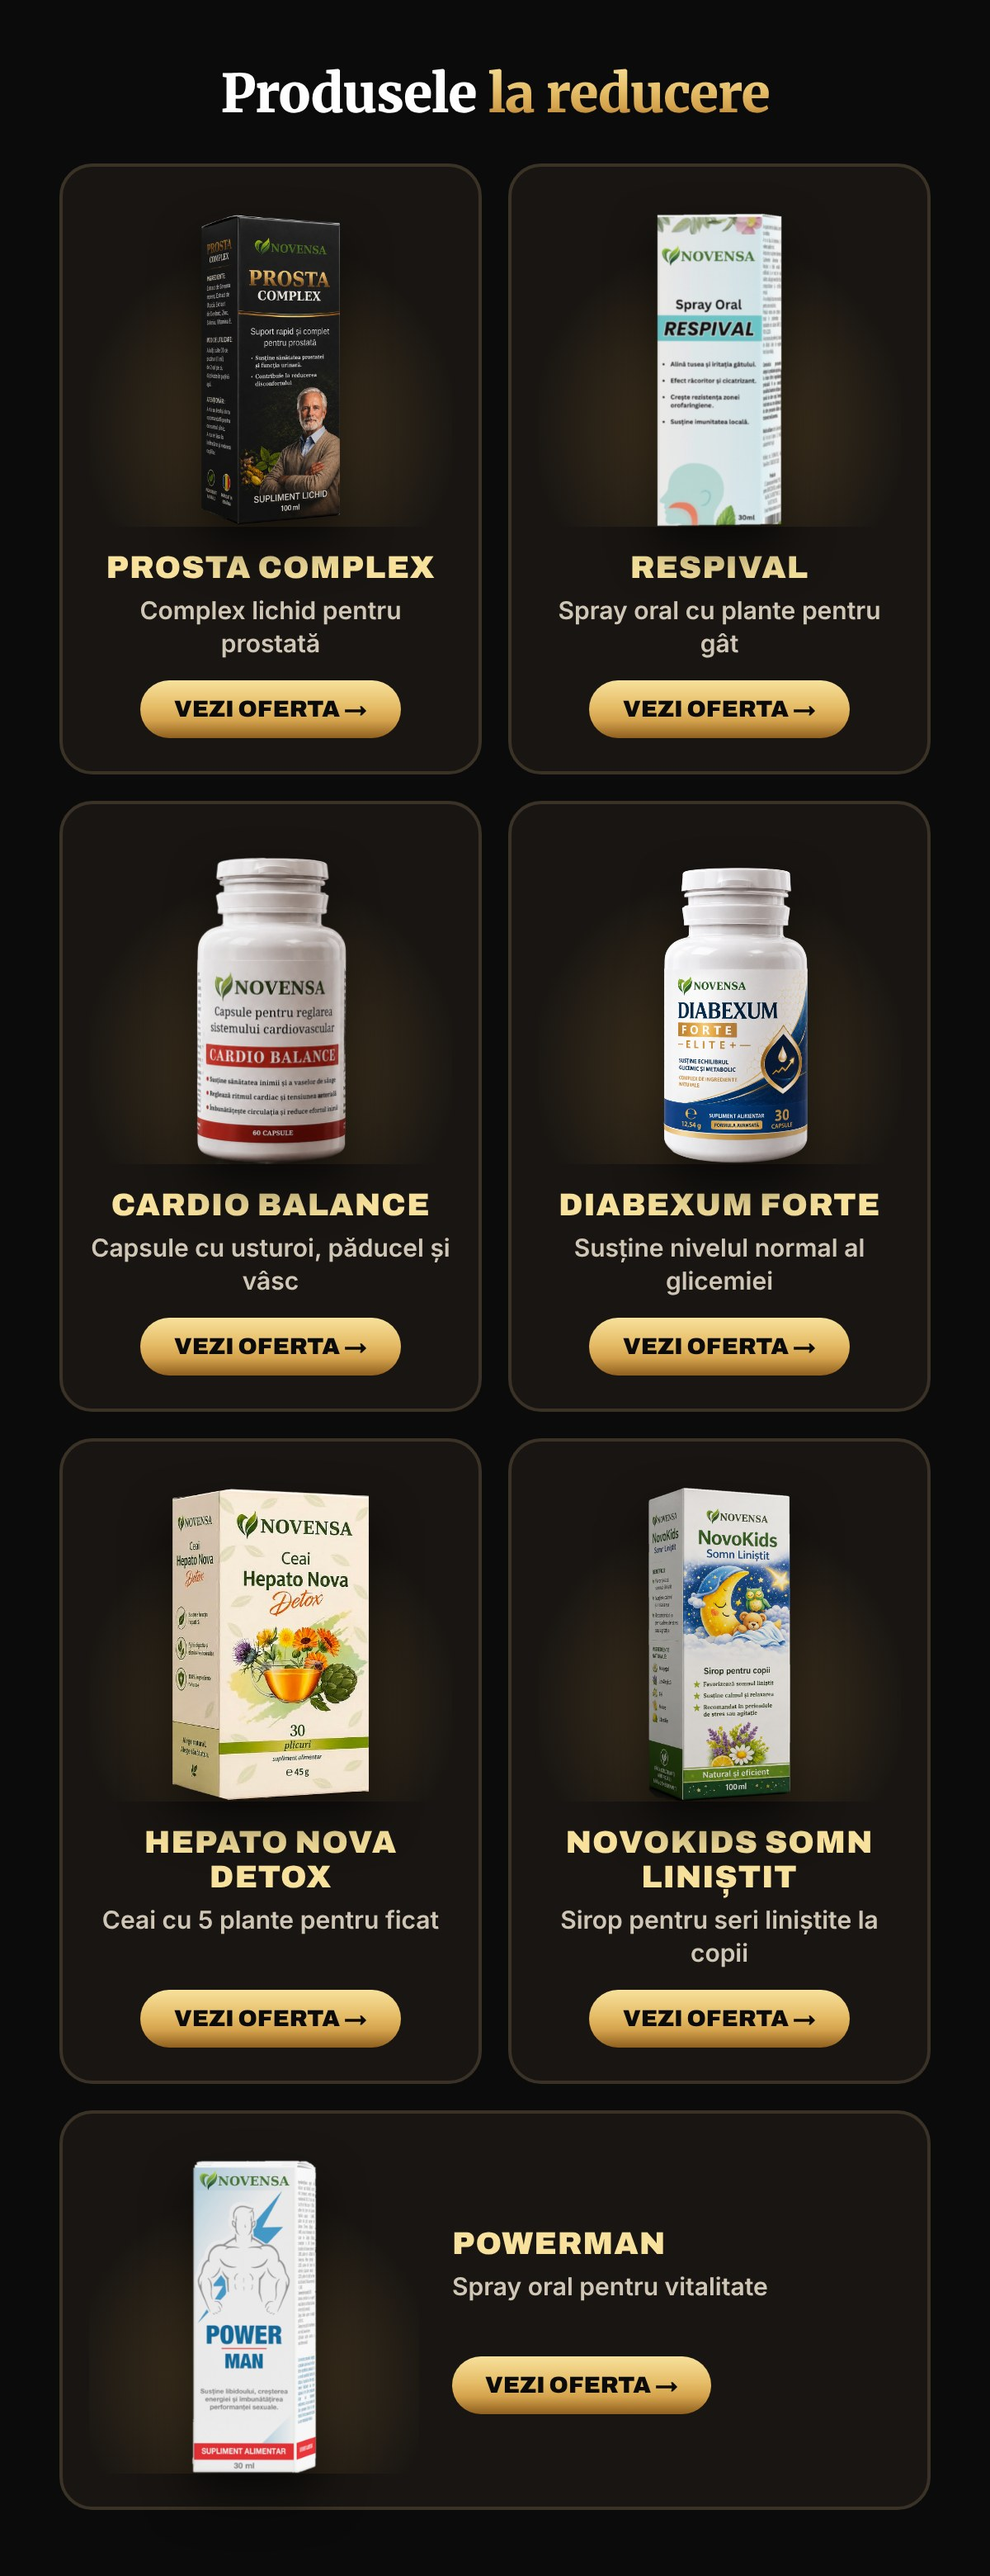
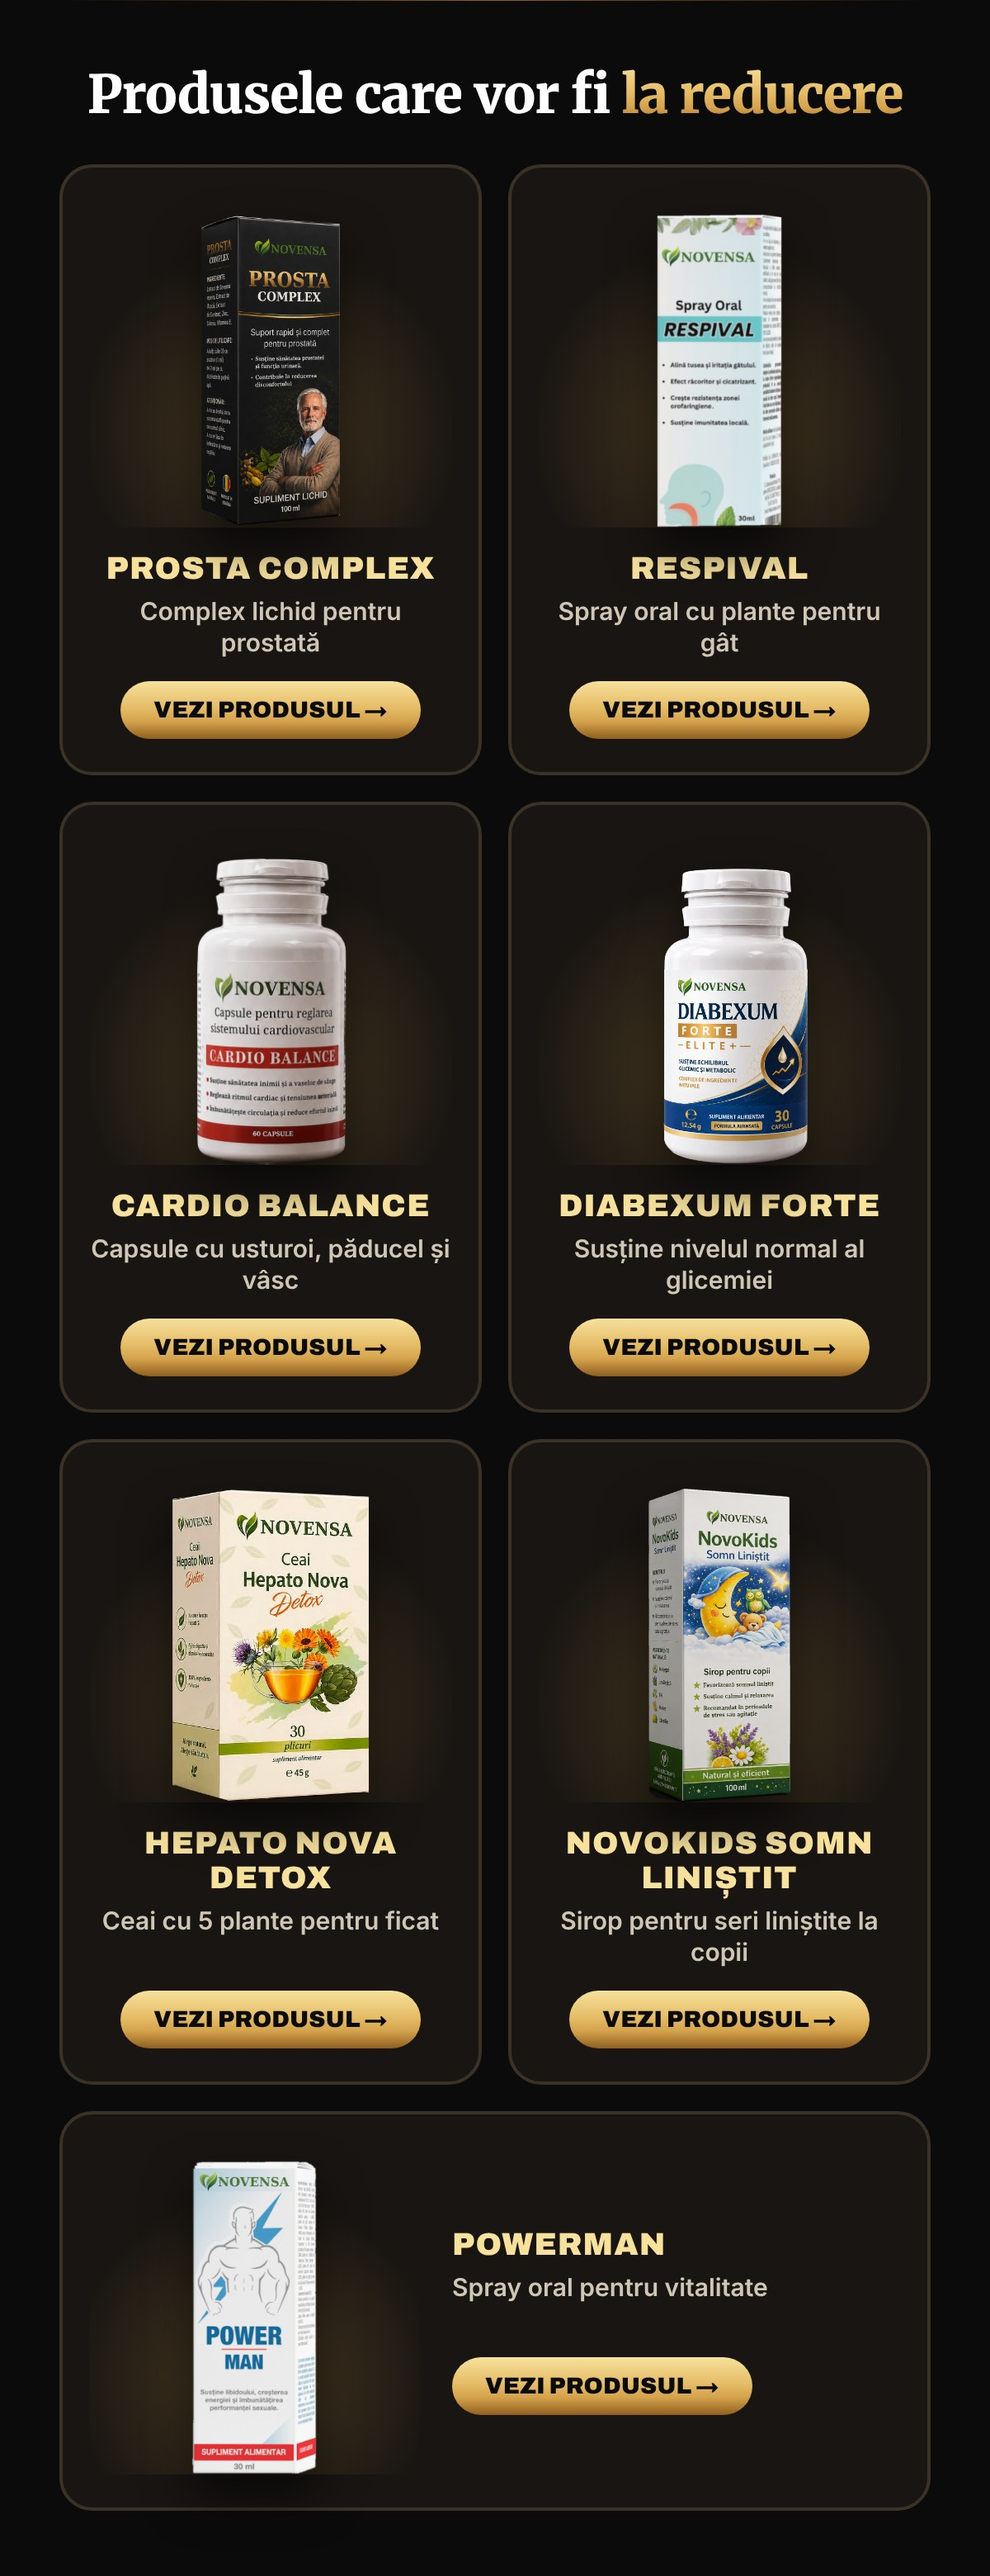
Black Friday email: announce it as upcoming, not already started
Claude-Session: https://claude.ai/code/session_01UvJ2ibTyJo3FTAiZ5XvaJd

diff --git a/brand/blackfriday/email/email.js b/brand/blackfriday/email/email.js
@@ -1,4 +1,4 @@
-// Email Black Friday Novensa: imagine lungă de 600 px lățime (randată la 2x = 1200 px), fără prețuri și fără date.
+// Email de ANUNȚ Black Friday Novensa (urmează, nu a început): imagine lungă de 600 px lățime (randată la 2x = 1200 px), fără prețuri și fără date.
 // Render: node email.js  →  email/black-friday-email.jpg (întreg) + email/bucati/01..NN.jpg (tăiat pentru lipit)
 const fs = require('fs'), path = require('path');
 const { chromium } = require('/opt/node-tools/node_modules/playwright');
@@ -70,20 +70,21 @@ body{width:600px;background:${BLK};color:#fff;font-family:Inter,sans-serif}
 <div class="sec" style="padding-top:34px;padding-bottom:46px">
   <div class="glow" style="width:700px;height:700px;left:120px;top:-180px"></div>
   <div style="position:relative;display:flex;justify-content:space-between;align-items:center">
-    <img class="logo" src="../../logo-novensa.png"><span class="tag" style="background:${RED};color:#fff">Doar câteva zile</span></div>
-  <div class="big gold" style="position:relative;font-size:118px;margin-top:40px">Black<br>Friday</div>
-  <div class="serif" style="position:relative;font-size:34px;margin-top:20px">Reduceri mari la toate produsele <span class="gold">Novensa.</span></div>
-  <div style="position:relative;font:600 18px/1.45 Inter;color:${GREY};margin-top:16px;width:470px">Transport gratuit la orice comandă și un tichet răzuibil câștigător în fiecare colet.</div>
+    <img class="logo" src="../../logo-novensa.png"><span class="tag" style="background:${RED};color:#fff">În curând</span></div>
+  <div class="big" style="position:relative;font-size:40px;margin-top:36px;letter-spacing:0">Urmează</div>
+  <div class="big gold" style="position:relative;font-size:118px;margin-top:10px">Black<br>Friday</div>
+  <div class="serif" style="position:relative;font-size:34px;margin-top:20px">Pregătim reduceri mari la toate produsele <span class="gold">Novensa.</span></div>
+  <div style="position:relative;font:600 18px/1.45 Inter;color:${GREY};margin-top:16px;width:470px">Vei avea transport gratuit la orice comandă și un tichet răzuibil câștigător în fiecare colet. Te anunțăm în ziua în care începe.</div>
   <div style="position:relative;display:flex;justify-content:center;align-items:flex-end;margin-top:30px;height:300px">
     ${['respival', 'prosta', 'cardio'].map((k, i) => { const p = products.find(x => x.key === k); return `<img src="../produse/${p.img}" style="height:${[250, 300, 240][i] * p.k}px;margin:0 ${i === 1 ? -14 : 0}px;position:relative;z-index:${i === 1 ? 2 : 1};transform:rotate(${[-8, 0, 8][i]}deg);filter:drop-shadow(0 20px 20px rgba(0,0,0,.6))">`; }).join('')}
   </div>
-  <div style="position:relative;text-align:center;margin-top:30px"><span class="btn">Vezi ofertele →</span></div>
+  <div style="position:relative;text-align:center;margin-top:30px"><span class="btn">Vezi produsele →</span></div>
 </div>
 <div class="hr"></div>
 
 <!-- 2. Ce primești -->
 <div class="sec">
-  <div class="serif" style="font-size:32px;text-align:center">Ce primești de <span class="gold">Black Friday</span></div>
+  <div class="serif" style="font-size:32px;text-align:center">Ce vei primi de <span class="gold">Black Friday</span></div>
   <div class="why" style="margin-top:24px">
     <div>${truck}<span><b>Transport gratuit</b><span>la orice comandă, chiar și la o singură bucată</span></span></div>
     <div>${tick}<span><b>Tichet răzuibil cadou</b><span>câte unul la fiecare comandă, toate sunt câștigătoare</span></span></div>
@@ -101,17 +102,17 @@ body{width:600px;background:${BLK};color:#fff;font-family:Inter,sans-serif}
     <div class="pk best"><div class="n">3</div><div class="u">bucăți</div><div class="l">Cea mai<br>aleasă</div></div>
     <div class="pk"><div class="n">5</div><div class="u">bucăți</div><div class="l">Reducere<br>maximă</div></div>
   </div>
-  <div style="font:600 15px Inter;color:${GREY};text-align:center;margin-top:16px">Pachetele sunt valabile la toate produsele de mai jos.</div>
+  <div style="font:600 15px Inter;color:${GREY};text-align:center;margin-top:16px">Pachetele vor fi valabile la toate produsele de mai jos.</div>
 </div>
 <div class="hr"></div>
 
 <!-- 4. Produse -->
 <div class="sec">
-  <div class="serif" style="font-size:32px;text-align:center">Produsele <span class="gold">la reducere</span></div>
+  <div class="serif" style="font-size:32px;text-align:center">Produsele care vor fi <span class="gold">la reducere</span></div>
   <div class="grid">
     ${P.map((p, i) => {
       const last = i === P.length - 1 && P.length % 2 === 1;
-      return `<div class="card${last ? ' wide' : ''}"><div class="im"><img src="../produse/${p.img}"></div><div><h3>${p.name}</h3><p>${LINES[p.key] || ''}</p><span class="b">Vezi oferta →</span></div></div>`;
+      return `<div class="card${last ? ' wide' : ''}"><div class="im"><img src="../produse/${p.img}"></div><div><h3>${p.name}</h3><p>${LINES[p.key] || ''}</p><span class="b">Vezi produsul →</span></div></div>`;
     }).join('')}
   </div>
 </div>
@@ -121,16 +122,16 @@ body{width:600px;background:${BLK};color:#fff;font-family:Inter,sans-serif}
 <div class="sec" style="text-align:center;padding-bottom:56px">
   <div class="glow" style="width:620px;height:620px;left:-10px;top:40px"></div>
   <div class="serif" style="position:relative;font-size:32px">În fiecare colet: <span class="gold">un tichet răzuibil.</span></div>
-  <div style="position:relative;font:600 18px/1.45 Inter;color:${GREY};margin-top:12px">Îl răzuiești când primești coletul. Toate tichetele sunt câștigătoare.</div>
+  <div style="position:relative;font:600 18px/1.45 Inter;color:${GREY};margin-top:12px">Fiecare comandă de Black Friday va avea un tichet răzuibil. Toate vor fi câștigătoare.</div>
   <div style="position:relative">${ticket}</div>
 </div>
 <div class="hr"></div>
 
 <!-- 6. CTA final -->
 <div class="sec" style="text-align:center;padding:46px 36px 50px">
-  <div class="big" style="font-size:52px">Black Friday ține<br><span class="gold">doar câteva zile</span></div>
-  <div style="font:600 18px/1.45 Inter;color:${GREY};margin-top:16px">După aceea, reducerile dispar.</div>
-  <div style="margin-top:28px"><span class="btn" style="font-size:24px;padding:20px 40px">Comandă acum →</span></div>
+  <div class="big" style="font-size:52px">Fii pe fază:<br><span class="gold">ține doar câteva zile</span></div>
+  <div style="font:600 18px/1.45 Inter;color:${GREY};margin-top:16px">Black Friday durează doar câteva zile. Urmărește-ne emailurile ca să nu-l ratezi.</div>
+  <div style="margin-top:28px"><span class="btn" style="font-size:24px;padding:20px 40px">Vezi produsele →</span></div>
   <div style="font:700 17px Inter;color:${GOLDL};margin-top:22px">novensa-romania.ro</div>
 </div>
 

diff --git a/brand/blackfriday/email/CITESTE-MA.md b/brand/blackfriday/email/CITESTE-MA.md
@@ -1,23 +1,23 @@
-# Email Black Friday Novensa
+# Email de anunț: urmează Black Friday la Novensa
 
 - `black-friday-email.jpg`: emailul întreg, o singură imagine lungă (600 px lățime în email, randată la 1200 px pentru ecrane retina).
 - `bucati/01.jpg` … `07.jpg`: același email tăiat pe secțiuni. Folosește-le dacă vrei să pui un link separat pe fiecare bucată sau dacă programul de email nu acceptă imagini foarte lungi.
 - Randare din nou: `node email.js` (textele sunt în `email.js`).
 
 ## Subiect (alege unul)
-1. 🖤 Black Friday Novensa a început: reduceri mari + transport gratuit
-2. Doar câteva zile: reduceri mari la toate produsele Novensa
-3. Un tichet răzuibil câștigător în fiecare colet 🎁
-4. Black Friday: transport gratuit chiar și la o singură bucată
+1. 🖤 Urmează Black Friday la Novensa
+2. Pregătește-te: reduceri mari la toate produsele Novensa, în curând
+3. În curând: un tichet răzuibil câștigător în fiecare colet 🎁
+4. Black Friday vine. Transport gratuit chiar și la o singură bucată
 
-**Preheader** (textul gri de după subiect): Pachete de 2, 3 și 5 bucăți la reducere mare. Plata la livrare.
+**Preheader** (textul gri de după subiect): Pachete de 2, 3 și 5 bucăți la reducere mare. Te anunțăm când începe.
 
 ## Text de pus deasupra imaginii
 > Bună ziua,
 >
-> A început Black Friday la Novensa! Pentru câteva zile ai reduceri mari la toate produsele, transport gratuit la orice comandă și un tichet răzuibil câștigător în fiecare colet.
+> Urmează Black Friday la Novensa! Pentru câteva zile vei avea reduceri mari la toate produsele, transport gratuit la orice comandă și un tichet răzuibil câștigător în fiecare colet. Te anunțăm în ziua în care începe.
 >
-> 👉 Vezi ofertele: https://novensa-romania.ro
+> 👉 Până atunci, vezi produsele: https://novensa-romania.ro
 
 ## Cum îl lipești gratuit
 
